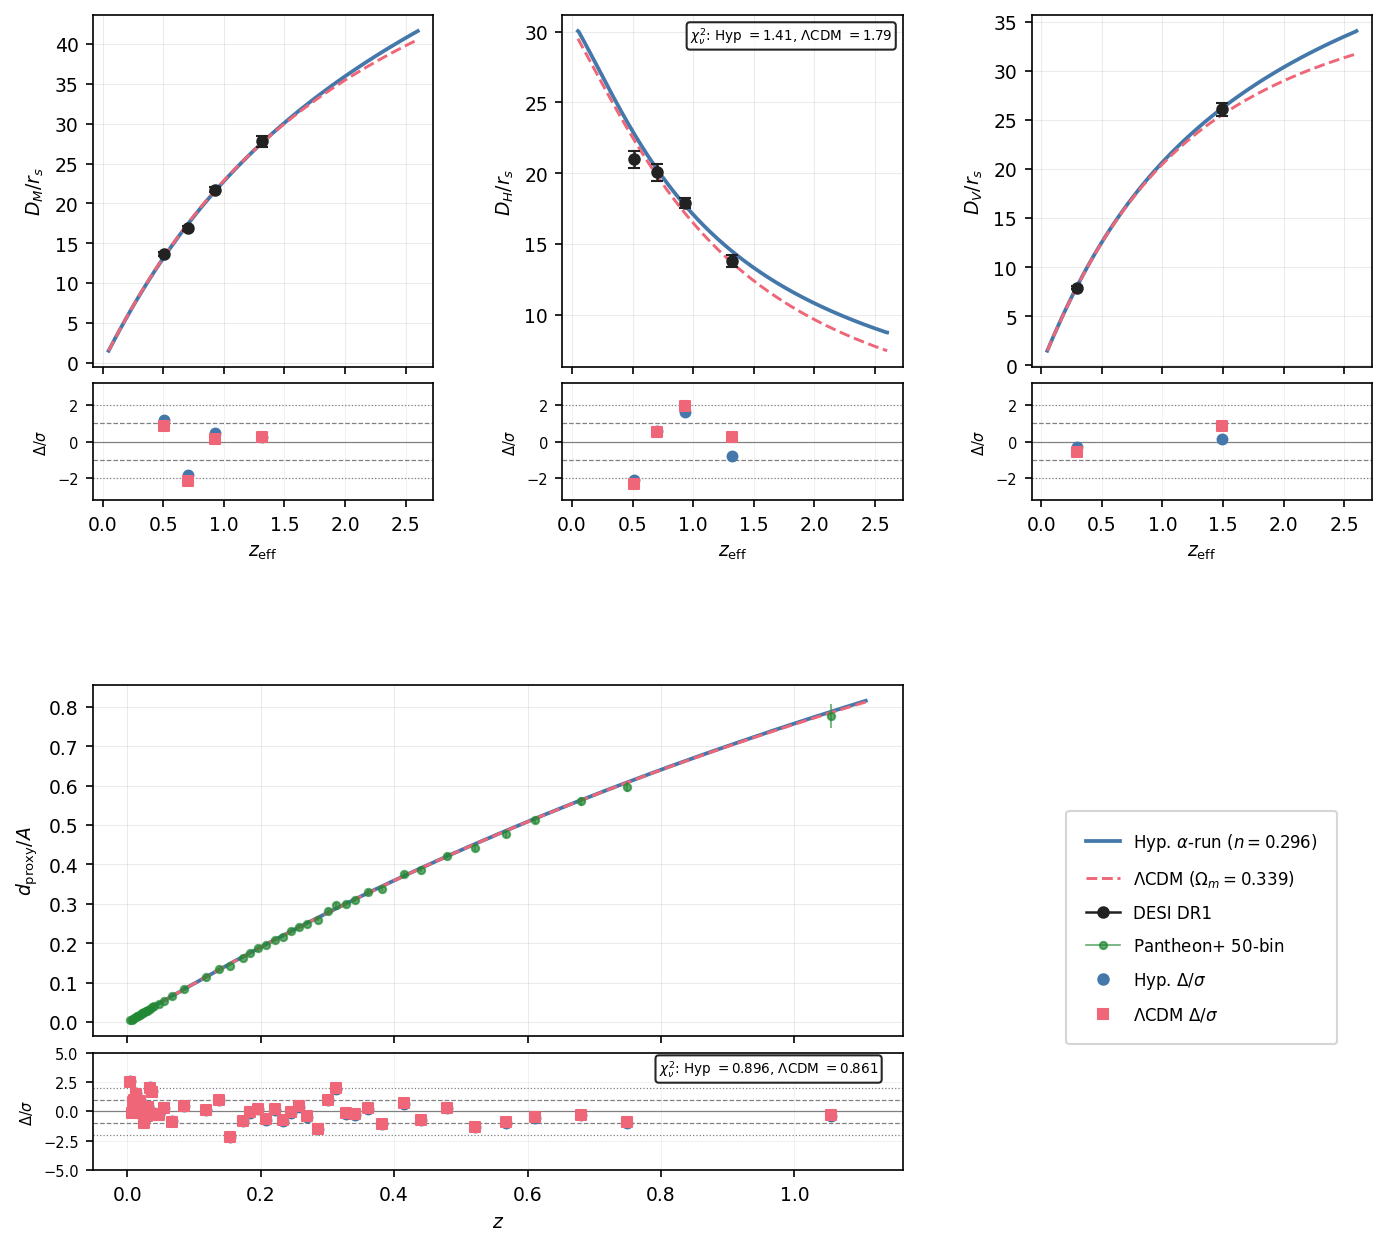
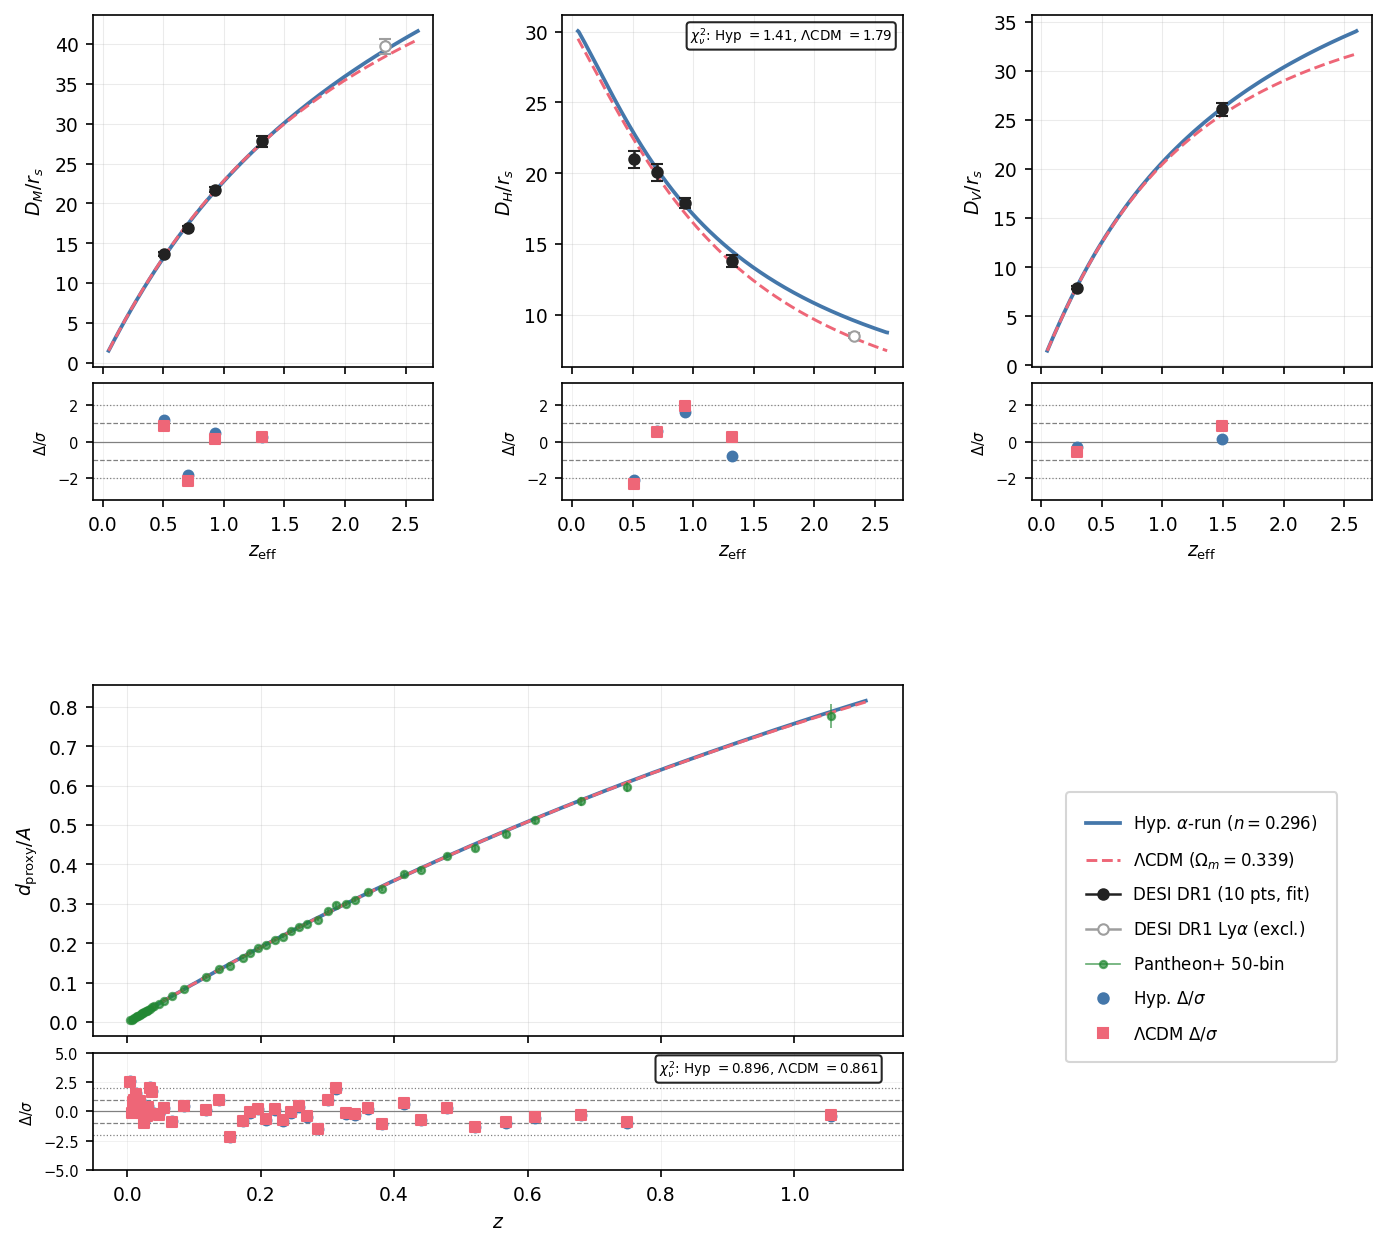
Explain Ly-alpha exclusion in sec 2.1; show excluded points in Fig 1
Expanded the Lya exclusion note in the Datasets paragraph: explains that the Lya forest probes intergalactic H absorption with different systematics (continuum, metal lines), that cross-covariance treatment is beyond scope, and that 10 data points are used. Open gray symbols for Lya in the figure are mentioned explicitly.

Changed region(s): [[0.7756, 0.6404, 0.9618, 0.8539]]

diff --git a/main.tex b/main.tex
@@ -54,7 +54,7 @@ In the following, we describe the hyperconical model and the Monjo-type stereogr
 
 \subsection{Datasets}
 
-The primary observational input is the DESI DR1 compressed BAO catalogue \cite{adame2025desi}, which provides measurements of three distance combinations in six tracer bins at effective redshifts $z_{\rm eff}=0.295$, $0.510$, $0.706$, $0.930$, $1.317$, and $1.491$. Each bin reports: (i) the comoving angular diameter distance ratio $D_M/r_s$, where $D_M(z)=(1+z)D_A(z)$ is the comoving transverse distance; (ii) the Hubble distance ratio $D_H/r_s \equiv c/[H(z)\,r_s]$; and (iii) the volume-averaged distance ratio $D_V/r_s \equiv [z\,D_M^2(z)\,D_H(z)]^{1/3}/r_s$. Here $r_s$ is the comoving sound horizon at the drag epoch; within the projected hyperconical likelihood it enters only as the combined nuisance $\beta=c/(H_0 r_s)$, analytically marginalized at each $\alpha$. The Ly$\alpha$ forest point near $z_{\rm eff}\simeq2.33$ is excluded, keeping the fit within the tracer-galaxy window.
+The primary observational input is the DESI DR1 compressed BAO catalogue \cite{adame2025desi}, which provides measurements of three distance combinations in six tracer bins at effective redshifts $z_{\rm eff}=0.295$, $0.510$, $0.706$, $0.930$, $1.317$, and $1.491$. Each bin reports: (i) the comoving angular diameter distance ratio $D_M/r_s$, where $D_M(z)=(1+z)D_A(z)$ is the comoving transverse distance; (ii) the Hubble distance ratio $D_H/r_s \equiv c/[H(z)\,r_s]$; and (iii) the volume-averaged distance ratio $D_V/r_s \equiv [z\,D_M^2(z)\,D_H(z)]^{1/3}/r_s$. Here $r_s$ is the comoving sound horizon at the drag epoch; within the projected hyperconical likelihood it enters only as the combined nuisance $\beta=c/(H_0 r_s)$, analytically marginalized at each $\alpha$. The two Ly$\alpha$ forest measurements at $z_{\rm eff}\simeq2.33$ ($D_M/r_s$ and $D_H/r_s$) are excluded from the fit: the Ly$\alpha$ forest probes intergalactic hydrogen absorption rather than galaxy clustering and carries additional systematic uncertainties (continuum estimation, metal-line contamination) not present in the galaxy and QSO tracers; combining them would require a dedicated cross-covariance treatment beyond the scope of this work. The fit therefore uses 10 data points; the excluded Ly$\alpha$ measurements are displayed as open symbols in Fig.~\ref{fig:bao_fit} for reference.
 
 A complementary constraint is provided by the Pantheon$+$ compilation \cite{scolnic2022pantheon}, which contains 1701 light curves of 1550 distinct Type~Ia supernovae spanning $0.001<z<2.26$. We use the 50-bin compressed comoving-distance proxy from \cite{Brout_2022}: each bin provides a dimensionless quantity $d_{\rm proxy}(z_i)\propto D_C(z_i)$ derived from the standardized distance moduli, with a single overall amplitude $A$ marginalized analytically at each $n$ (see Section~\ref{sec:methods:likelihood}).
 
